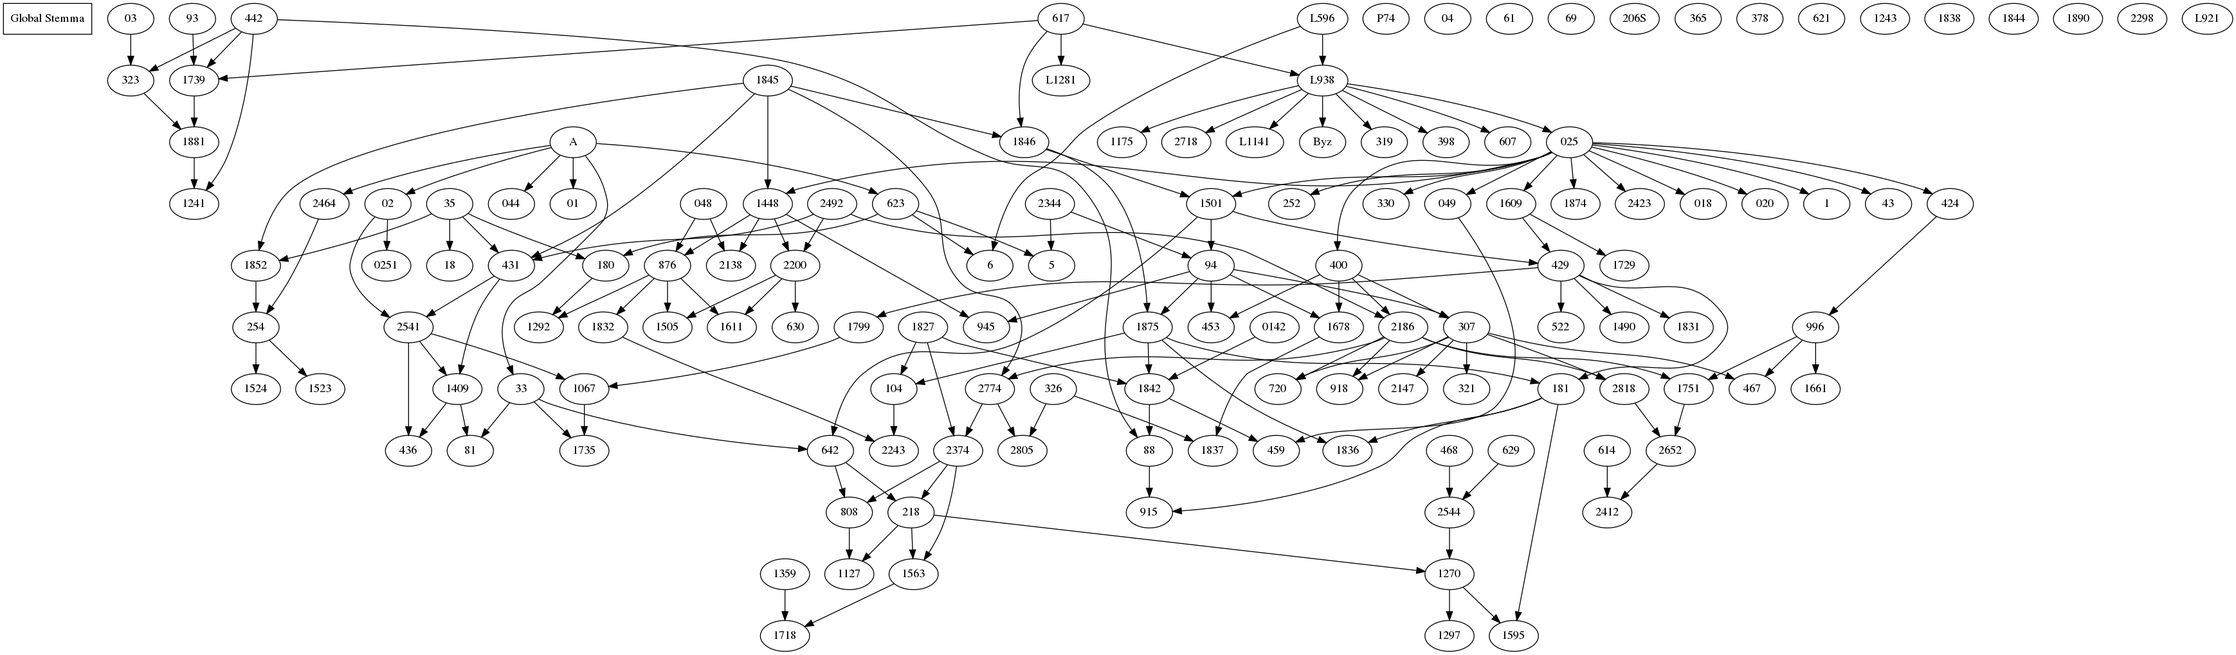
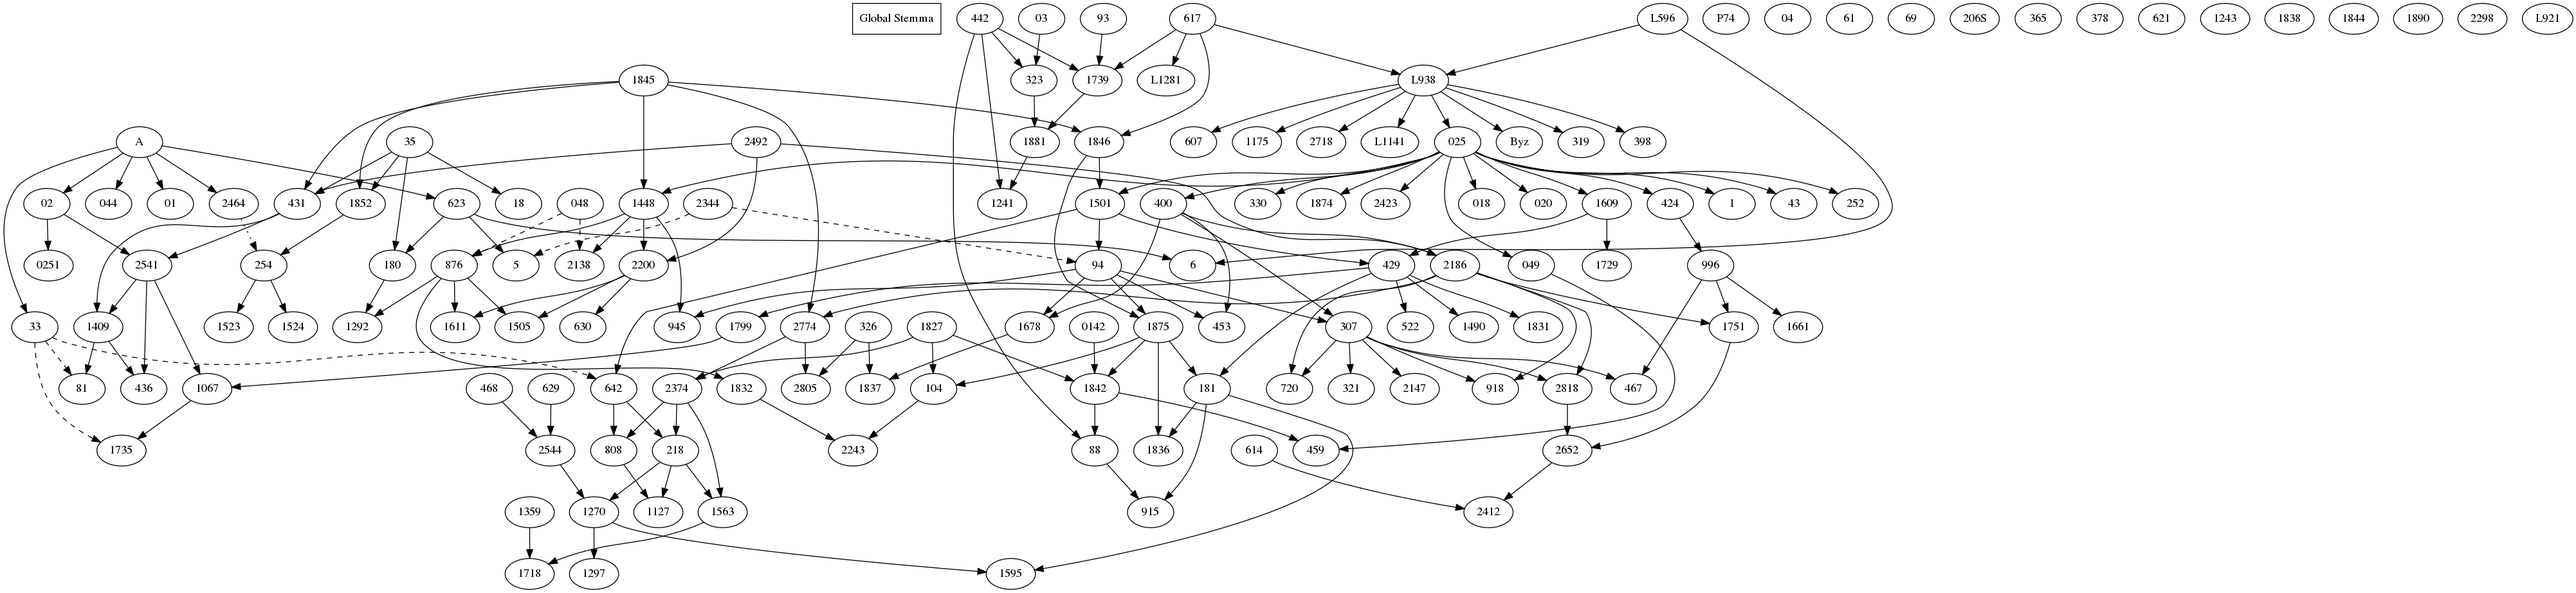
Added conditional edge formatting to global_stemma

diff --git a/src/global_stemma.cpp b/src/global_stemma.cpp
@@ -52,13 +52,8 @@ global_stemma::global_stemma(const list<witness> & witnesses) {
 		if (global_stemma_ancestor_ids.empty()) {
 			continue;
 		}
-		//Get the maximum number of agreements between this witness and its ancestors:
-		int max_agreements = 0;
-		for (string ancestor_id : global_stemma_ancestor_ids) {
-			genealogical_comparison comp = wit.get_genealogical_comparison_for_witness(ancestor_id);
-			int agreements = comp.agreements.cardinality();
-			max_agreements = max(max_agreements, agreements);
-		}
+		//Get the number of extant passages for this witness:
+		unsigned int extant = wit.get_genealogical_comparison_for_witness(wit_id).explained.cardinality();
 		//Now, add an edge for each ancestor:
 		for (string ancestor_id : global_stemma_ancestor_ids) {
 			witness ancestor = witnesses_by_id.at(ancestor_id);
@@ -66,7 +61,7 @@ global_stemma::global_stemma(const list<witness> & witnesses) {
 			global_stemma_edge e;
 			e.ancestor = ancestor_id;
 			e.descendant = wit_id;
-			e.weight = comp.agreements.cardinality();
+			e.weight = float(comp.agreements.cardinality()) / float(extant);
 			graph.edges.push_back(e);
 		}
 	}
@@ -88,8 +83,9 @@ global_stemma_graph global_stemma::get_graph() const {
 
 /**
  * Given an output stream, writes the global stemma graph to output in .dot format.
+ * An optional flag indicating whether to format edges to reflect proportions of agreements with stemmatic ancestors can also be specified.
  */
-void global_stemma::to_dot(ostream & out) {
+void global_stemma::to_dot(ostream & out, bool format_edges=false) {
 	//Add the graph first:
 	out << "digraph global_stemma {\n";
 	//Add a line indicating that nodes do not have any shape:
@@ -111,13 +107,34 @@ void global_stemma::to_dot(ostream & out) {
 		//Get the numerical indices of the endpoints:
 		string ancestor_id = e.ancestor;
 		string descendant_id = e.descendant;
-		int ancestor_index = id_to_index.at(ancestor_id);
-		int descendant_index = id_to_index.at(descendant_id);
-		float weight = e.weight;
-		out << "\t";
-		out << ancestor_index << " -> " << descendant_index;
-		out << " [weight=" << weight << "]";
-		out << ";\n";
+		int ancestor_ind = id_to_index.at(ancestor_id);
+		int descendant_ind = id_to_index.at(descendant_id);
+		//Handle the conditional formatting of the edge:
+		list<string> format_cmds = list<string>();
+		if (format_edges) {
+			//Format the line style based on the flow strength:
+			if (e.weight <= 0.5) {
+				string edge_style = "style=dotted";
+				format_cmds.push_back(edge_style);
+			}
+			else if (e.weight <= 0.75) {
+				string edge_style = "style=dashed";
+				format_cmds.push_back(edge_style);
+			}
+			else {
+				string edge_style = "style=solid";
+				format_cmds.push_back(edge_style);
+			}
+		}
+		//Add a line describing the edge:
+		out << "\t" << ancestor_ind << " -> " << descendant_ind << " [";
+		for (string format_cmd : format_cmds) {
+			if (format_cmd != format_cmds.front()) {
+				out << ", ";
+			}
+			out << format_cmd;
+		}
+		out << "];\n";
 	}
 	out << "}" << endl;
 	return;

diff --git a/src/print_global_stemma.cpp b/src/print_global_stemma.cpp
@@ -94,13 +94,15 @@ unordered_map<string, genealogical_comparison> get_genealogical_comparisons_for_
  */
 int main(int argc, char* argv[]) {
 	//Read in the command-line options:
+	bool format_edges = false;
 	string input_db_name = string();
 	try {
 		cxxopts::Options options("print_global_stemma", "Prints a global stemma graph to a .dot output files. The output file will be placed in the \"global\" directory.");
-		options.custom_help("[-h] input_db");
+		options.custom_help("[-h] [--format-edges] input_db");
 		//options.positional_help("").show_positional_help();
 		options.add_options("")
-				("h,help", "print this help");
+				("h,help", "print this help")
+				("format-edges", "format edges to reflect proportions of agreements with stemmatic ancestors");
 		options.add_options("positional")
 				("input_db", "genealogical cache database", cxxopts::value<vector<string>>());
 		options.parse_positional({"input_db"});
@@ -109,6 +111,9 @@ int main(int argc, char* argv[]) {
 		if (args.count("help")) {
 			cout << options.help({""}) << endl;
 			exit(0);
+		}
+		if (args.count("format-edges")) {
+			format_edges = args["format-edges"].as<bool>();
 		}
 		//Parse the positional arguments:
 		if (!args.count("input_db")) {
@@ -162,7 +167,7 @@ int main(int argc, char* argv[]) {
 	//Then write to file:
 	fstream dot_file;
 	dot_file.open(filepath, ios::out);
-	gs.to_dot(dot_file);
+	gs.to_dot(dot_file, format_edges);
 	dot_file.close();
 	exit(0);
 }

diff --git a/include/global_stemma.h b/include/global_stemma.h
@@ -22,7 +22,7 @@ struct global_stemma_vertex {
 struct global_stemma_edge {
 	string ancestor;
 	string descendant;
-	unsigned int weight;
+	float weight;
 };
 struct global_stemma_graph {
 	list<global_stemma_vertex> vertices;
@@ -37,7 +37,7 @@ public:
 	global_stemma(const list<witness> & witnesses);
 	virtual ~global_stemma();
 	global_stemma_graph get_graph() const;
-	void to_dot(ostream & out);
+	void to_dot(ostream & out, bool format_edges);
 };
 
 #endif /* GLOBAL_STEMMA_H */

diff --git a/test/autotest.cpp b/test/autotest.cpp
@@ -1341,7 +1341,7 @@ void autotest::run() {
 			try {
 				//Test .dot serialization:
 				stringstream ss;
-				gs.to_dot(ss);
+				gs.to_dot(ss, false);
 				string out = ss.str();
 				if (out.empty()) {
 					u_test.msg += "The .dot serialization was empty.\n";

diff --git a/README.md b/README.md
@@ -243,7 +243,7 @@ The print\_textual\_flow script accepts the same positional inputs (the database
 
 These arguments can be provided in any combination. If none of them is provided, then it is assumed that the user wants all graphs to be generated. In addition, a `--strengths` argument can be provided, which will format textual flow edges to highlight flow strength, per Edmondson's recommendation.
 
-The print\_global\_stemma scripts takes only a single argument, the database. It optimizes the substemmata of all witnesses (choosing the first option in case of ties), then combines the substemmata into a single global stemma. While this will produce a global stemma graph fully automatically, this graph should be considered a "first-pass" result; users are strongly encouraged to run the optimize\_substemmata script for individual witnesses and modify the graph according to their judgment.
+The print\_global\_stemma script requires at least one input (the database), but it also accepts an optional `--format-edges` argument, which will draw edges connecting stemmatic ancestors to their descendants as dotted, dashed, or solid based on the proportion of passages where they agree. It optimizes the substemmata of all witnesses (choosing the first option in case of ties), then combines the substemmata into a single global stemma. While this will produce a complete global stemma automatically, the resulting graph should be considered a "first-pass" result; users are strongly encouraged to run the optimize\_substemmata script for individual witnesses and modify the graph according to their judgment.
 
 The generated outputs are not image files, but .dot files, which contain textual descriptions of the graphs. To render the images from these files, we must use the `dot` program from the graphviz library. As an example, if the graph description file for the local stemma of 3 John 1:4/22–26 is B25K1V4U22-26-local-stemma.dot, then the command
 
@@ -267,7 +267,7 @@ Coherence in attestations diagrams for all readings in 3 John 1:4/22–26:
 Coherence in variant passages diagram for 3 John 1:4/22–26:
 ![3 John 1:4/22–26 coherence in variant passages diagram](https://github.com/jjmccollum/open-cbgm/blob/master/images/B25K1V4U22-26-coherence-variants.png)
 
-Complete global stemma for 3 John (multiple roots are due to readings with unclear sources):
+Complete global stemma for 3 John (multiple roots are due to readings with unclear sources), with edges formatted to highlight levels of agreement:
 ![3 John global stemma](https://github.com/jjmccollum/open-cbgm/blob/master/images/global-stemma.png)
 
 ## Future Development
